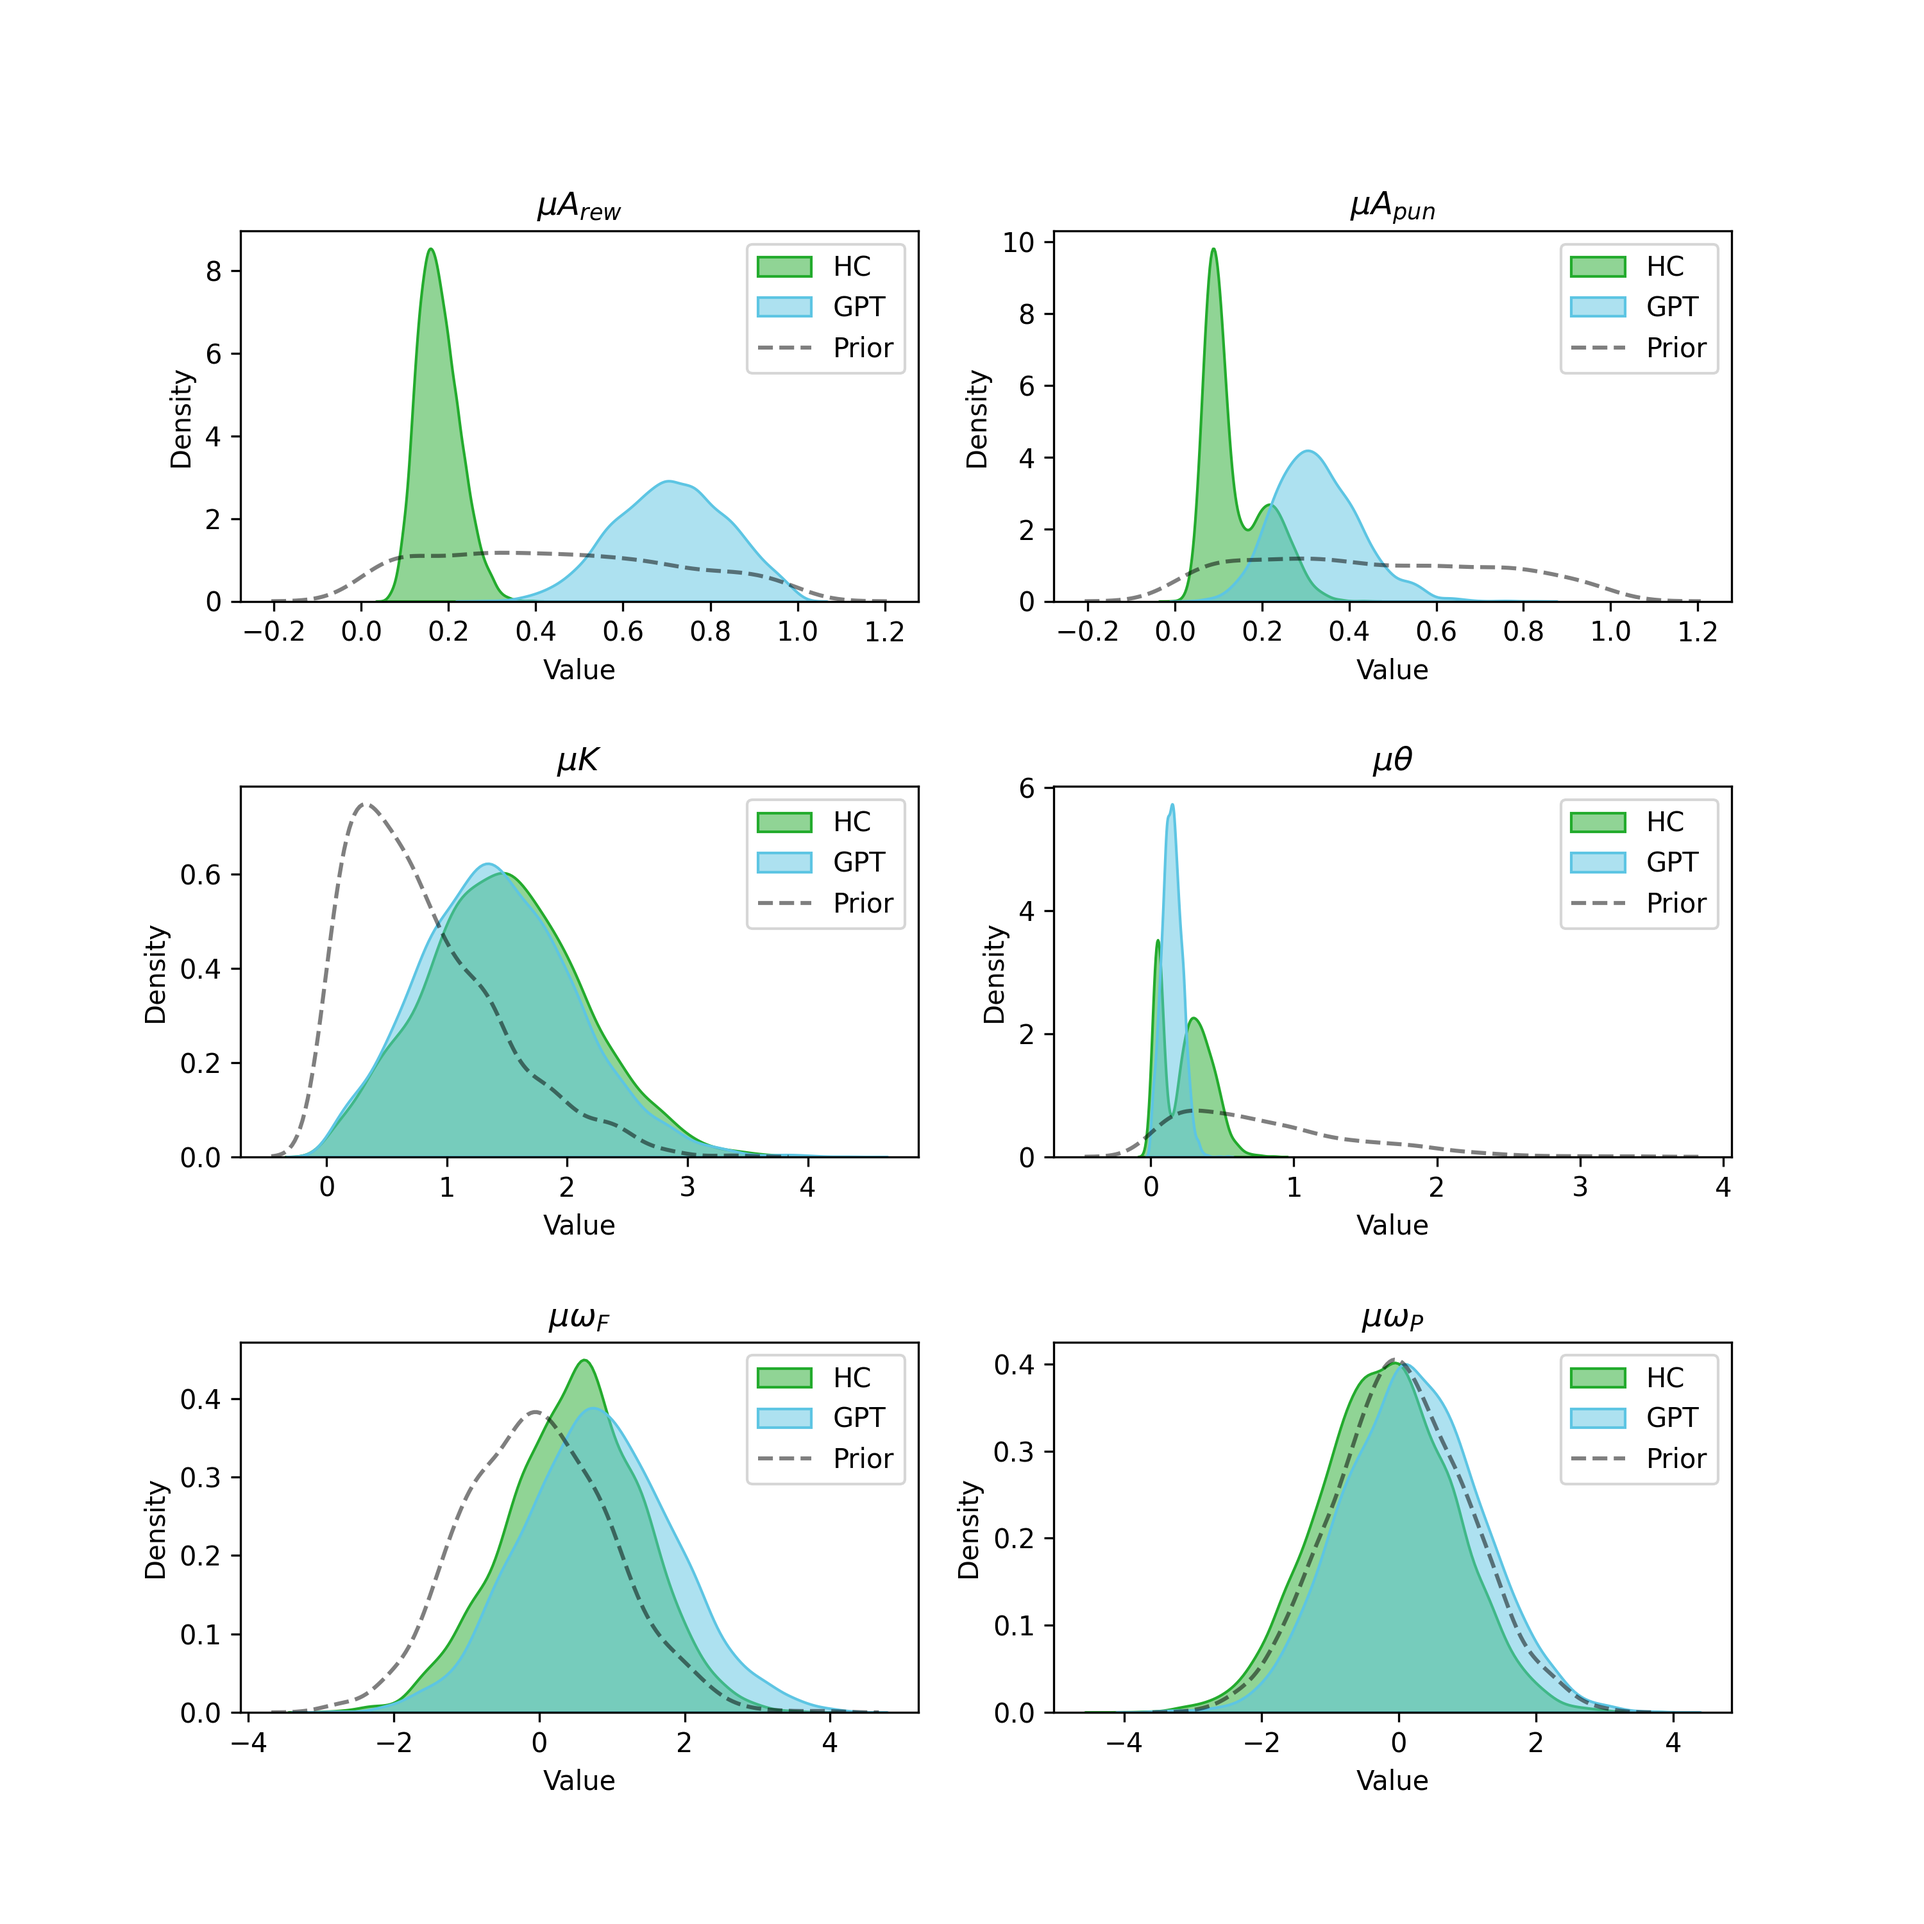
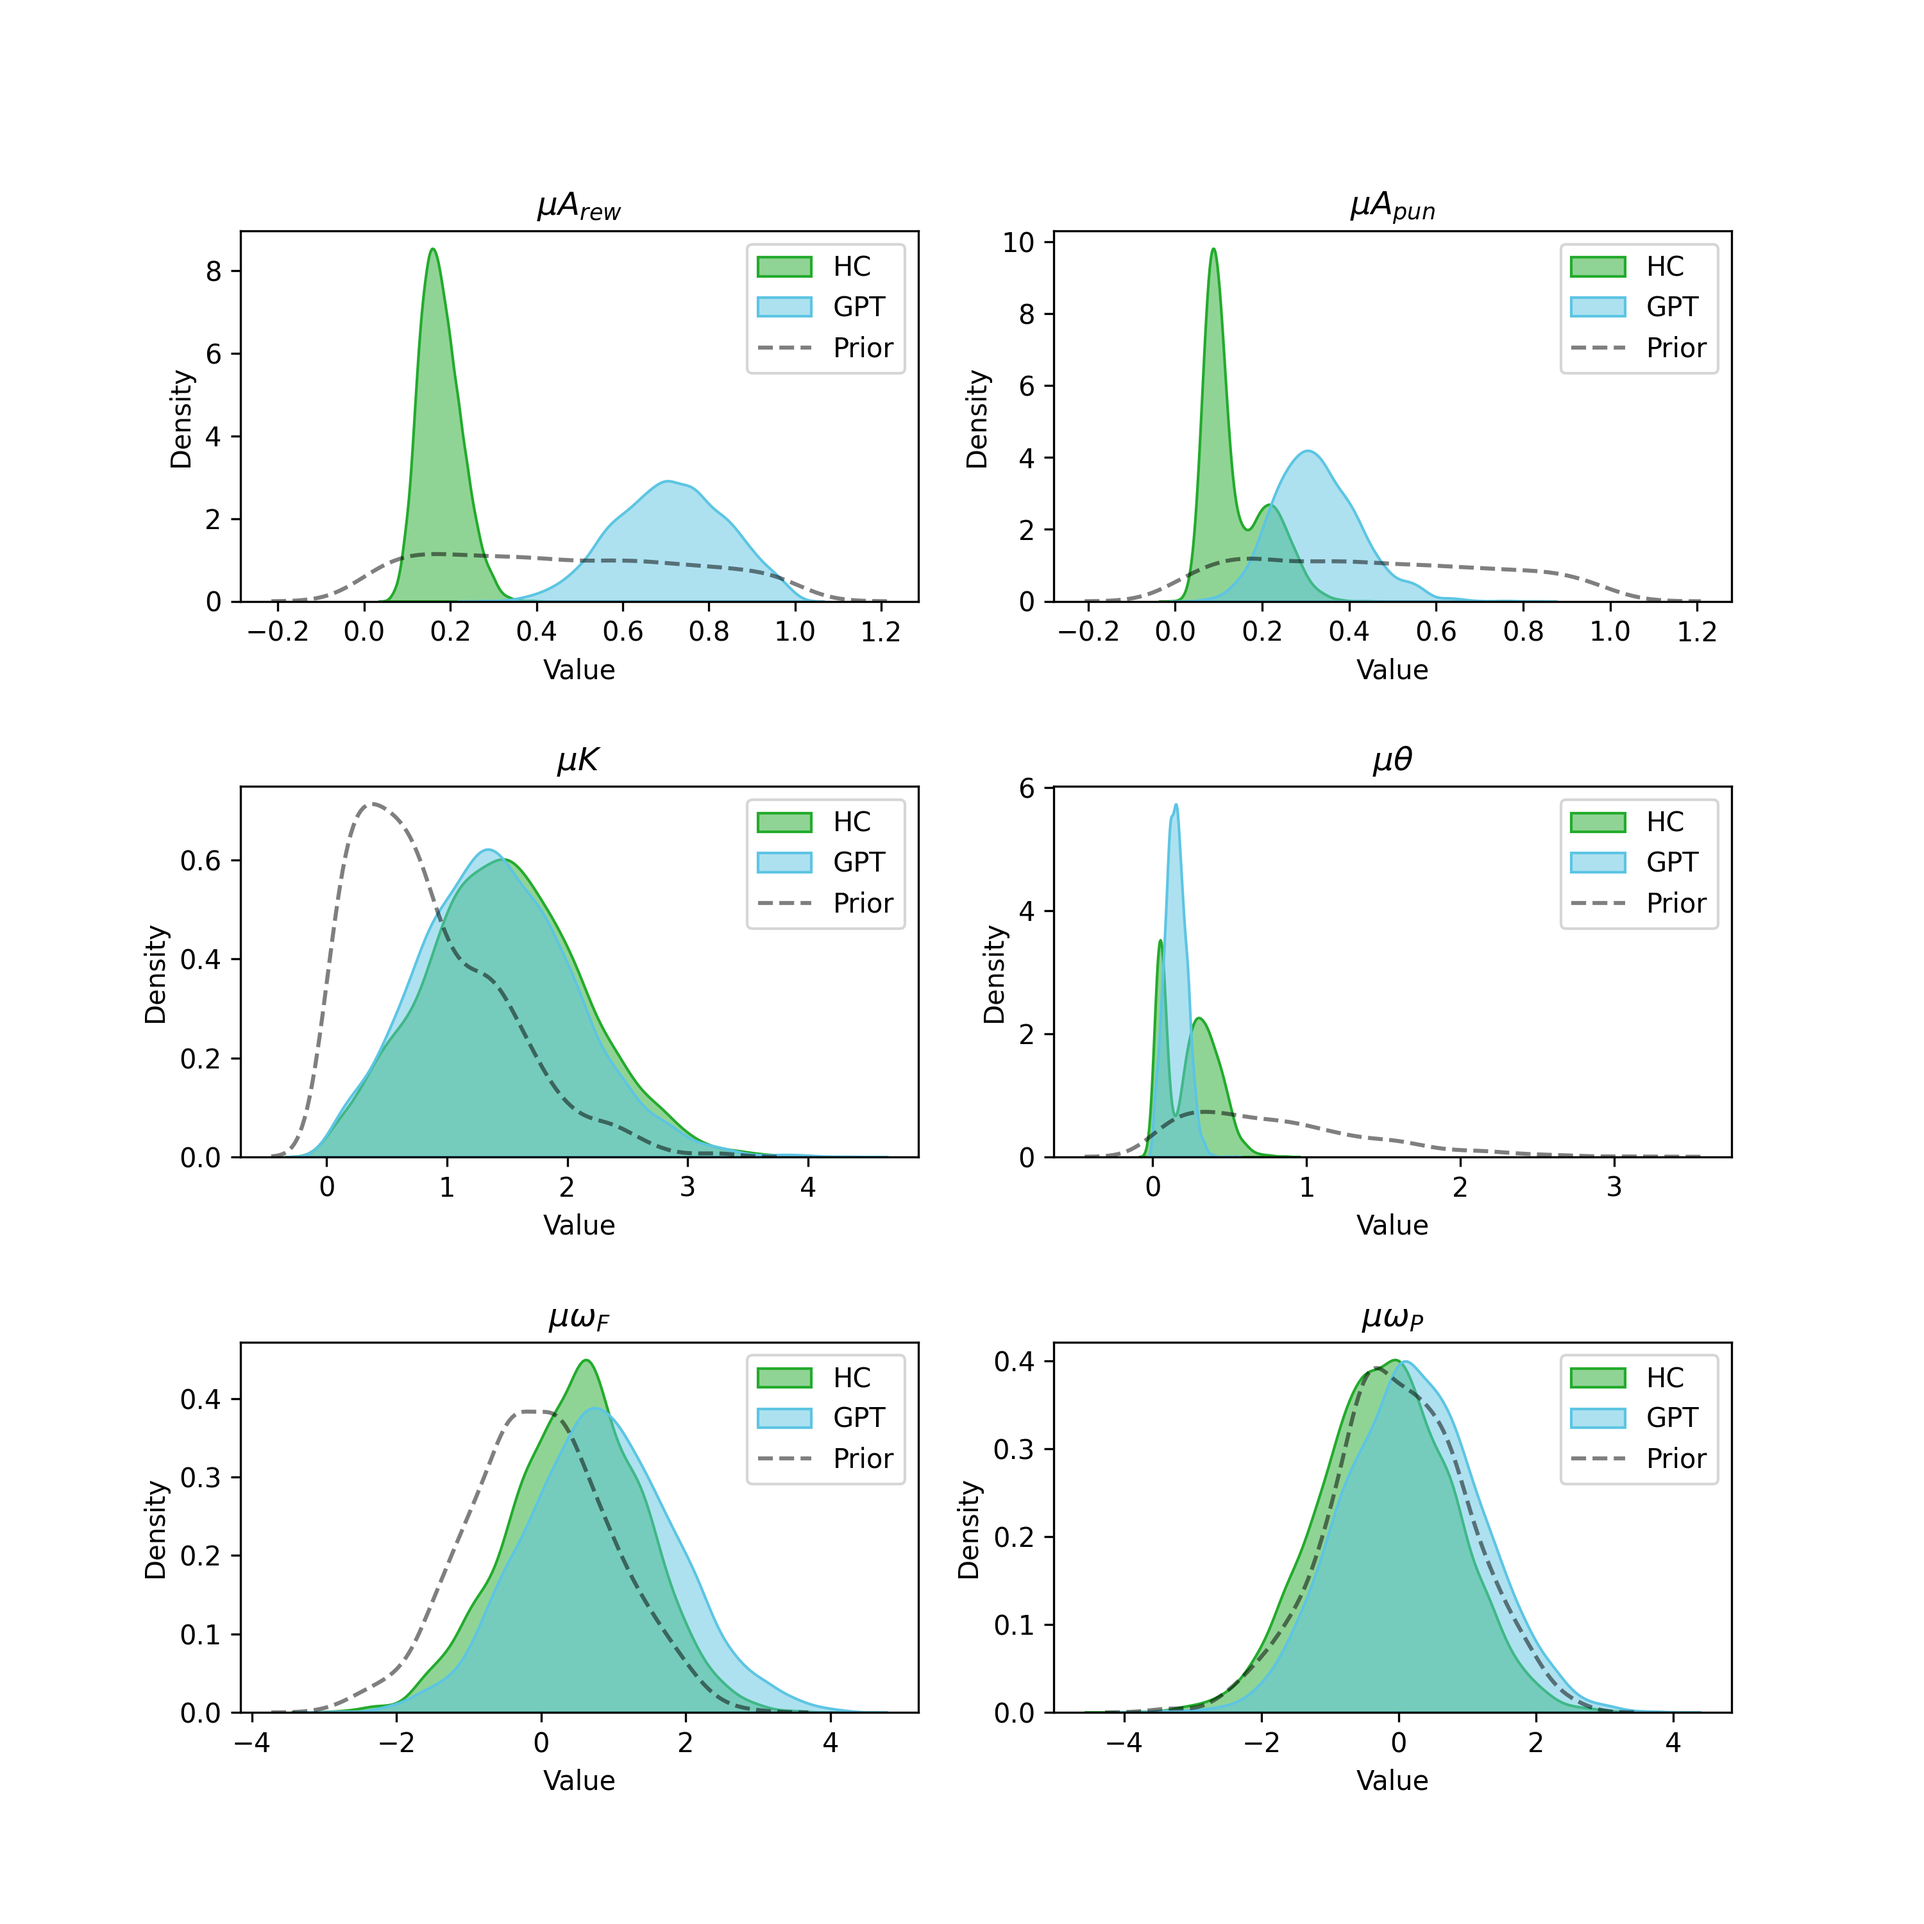
update plots

diff --git a/src/estimation/plot_estimates.py b/src/estimation/plot_estimates.py
@@ -3,7 +3,13 @@ import matplotlib.pyplot as plt
 import numpy as np
 import pandas as pd
 import seaborn as sns
-from scipy.stats import truncnorm, gamma
+from scipy.stats import truncnorm, gamma, binom
+
+def chance_level(n, alpha = 0.001, p = 0.5):
+    k = binom.ppf(1-alpha, n, p)
+    chance_level = k/n
+    
+    return chance_level
 
 def sample_truncated_normal(mean, sd, lower, upper, size=1000):
     a, b = (lower - mean) / sd, (upper - mean) / sd
@@ -28,8 +34,8 @@ def plot_posteriors(hc_data, gpt_data, parameters=[("mu_a_rew", "$\mu A_{rew}$")
 
     for i, (param_name, param_title) in enumerate(parameters):
         ax = axs[i // 2, i % 2]
-        sns.kdeplot(hc_data[param_name], ax=ax, fill=True, alpha=0.5, label="HC")
-        sns.kdeplot(gpt_data[param_name], ax=ax, fill=True, alpha=0.5, label="GPT")
+        sns.kdeplot(hc_data[param_name], ax=ax, fill=True, alpha=0.5, label="HC", color="#23AB2D")
+        sns.kdeplot(gpt_data[param_name], ax=ax, fill=True, alpha=0.5, label="GPT", color="#5dc5e3")
 
         # Plot prior if show_priors is True
         if show_priors and priors:
@@ -44,28 +50,78 @@ def plot_posteriors(hc_data, gpt_data, parameters=[("mu_a_rew", "$\mu A_{rew}$")
     if save_path is not None:
         plt.savefig(save_path, dpi=300)
 
-    plt.show()
+def plot_multiple_descriptive_adequacies(df, save_path=None):
+    '''
+    Plot the descriptive adequacy of the model.
 
+    Parameters
+    ----------
+    df : pd.DataFrame
+        Dataframe containing the accuracies in choice estimations for each subject
+    
+    save_path : str
+        Path to save the plot.
+    '''
+    # divide pred success by 100 to get percentage
+    df['pred_success'] = df['pred_success'] / 100
 
+    # Set subplot
+    fig, ax = plt.subplots(figsize=(10, 10))
 
+    # sort bar chart by accuracy descending
+    df = df.sort_values(by=['pred_success'], ascending=False).reset_index(drop=True)
+
+    # Create bar plot with each subject (row) on the x-axis and the accuracy on the y-axis
+    ax.bar(df.index, df['pred_success'], color='darkgrey')  # Set bars to dark grey
+
+    # Add a line for average accuracy across subjects, set to black
+    ax.axhline(y=df['pred_success'].mean(), linestyle='-', color='black')
+
+    # Add a dotted line for chance level at 25%, set to black
+    ax.axhline(y=chance_level(n=60, p=0.25, alpha=0.05), linestyle='--', color='black')
+
+    # add legend for the two lines in the top right corner
+    ax.legend(['Average Accuracy', 'Chance Level'], loc='upper right')
+
+    # Set x-ticks to start at 0 and then at every 10th subject
+    ax.set_xticks(range(0, len(df.index), 10))
+    ax.set_xticklabels(range(0, len(df.index), 10))
+
+    ax.set_xlabel("Subject")
+    ax.set_ylabel("Choice Estimation Accuracy")
+
+    # Limit x-axis to just cover the range of subjects, eliminating extra space on sides
+    ax.set_xlim(-0.5, len(df.index) - 0.5)
+
+    # Save the plot if a save path is provided
+    if save_path is not None:
+        plt.savefig(save_path, dpi=300)
+
+    plt.show()  # Add this to display the plot when not saving
 
 
 
 def main(): 
     # define paths
     path = pathlib.Path(__file__)
-    data_path = path.parents[2] / "src" / "estimation" / "estimated_parameters"
+    data_path = path.parents[2] / "src" / "estimation" / "results"
     
-    # load data
-    hc_data = pd.read_csv(data_path / "param_estimated_ahn_hc.csv")
-    gpt_data = pd.read_csv(data_path / "param_estimated_gpt.csv")
+    # load parameter estimation data
+    hc_data_params = pd.read_csv(data_path / "param_estimated_ahn_hc.csv")
+    gpt_data_params = pd.read_csv(data_path / "param_estimated_gpt.csv")
 
     # plot posteriors
-    plot_posteriors(hc_data, gpt_data, save_path=path.parents[2] / "src" / "estimation" / "plots" / "posterior_compare_w_priors", show_priors=True)
-    plot_posteriors(hc_data, gpt_data, save_path=path.parents[2] / "src" / "estimation" / "plots" / "posterior_compare_no_priors", show_priors=False)
+    plot_posteriors(hc_data_params, gpt_data_params, save_path=path.parents[2] / "src" / "estimation" / "plots" / "posterior_compare_w_priors", show_priors=True)
 
-    hc_new_priors_data = pd.read_csv(data_path / "NEW_PRIORS_param_estimated_ahn_hc.csv")
-    plot_posteriors(hc_new_priors_data, gpt_data, save_path=path.parents[2] / "src" / "estimation" / "plots" / "posterior_compare_NEW_PRIORS", show_priors=True)
+    # load posterior predictions data
+    #hc_data_pred = pd.read_csv(data_path / "pred_success_ahn_hc.csv")
+    gpt_data_pred = pd.read_csv(data_path / "pred_success_gpt.csv")
+
+    # plot descriptive adequacy
+    #plot_multiple_descriptive_adequacies(hc_data_pred, save_path=path.parents[2] / "src" / "estimation" / "plots" / "descriptive_adequacy_hc")
+    plot_multiple_descriptive_adequacies(gpt_data_pred)
+
+
 
 if __name__ == "__main__":
     main()
